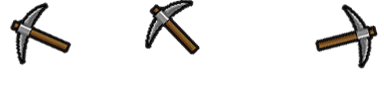
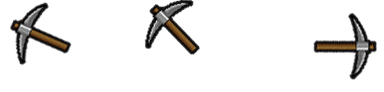
画像確認

Changed region(s): [[0.8125, 0.0435, 1.0, 0.8696]]

diff --git a/TGS2024/StageBlock.cpp b/TGS2024/StageBlock.cpp
@@ -29,7 +29,7 @@ StageBlock::StageBlock(int set_block_num,float set_x, float set_y)
 		break;
 	case 4:
 		//block_img = LoadGraph("images/Stage/rock.png");
-		LoadDivGraph("images/Stage/rock.png", 7, 7, 1, 64, 64, rock_img);
+		LoadDivGraph("images/Stage/rock2.png", 7, 7, 1, 64, 64, rock_img);
 		hp = 30;
 		shake_cnt = 0;
 		shakex = 0;
@@ -261,15 +261,15 @@ void StageBlock::Draw() const
 
 	//DrawCircle(box_vertex.upper_leftx, box_vertex.upper_lefty, 2, 0xff00ff, TRUE);
 	//DrawCircle(box_vertex.lower_leftx, box_vertex.lower_lefty, 2, 0xff00ff, TRUE);
-	DrawCircle(location.x, location.y, 2, 0xffffff, true);			// 中心座標
-	DrawCircle(location.x, location.y - height / 2, 2, 0xffffff, true);			// 中心座標
+	//DrawCircle(location.x, location.y, 2, 0xffffff, true);			// 中心座標
+	//DrawCircle(location.x, location.y - height / 2, 2, 0xffffff, true);			// 中心座標
 	if (block_num == 1)
 	{
-		DrawFormatString(location.x, location.y - 60, 0xffffff, "%.0f", location.y - height / 2);
-		DrawBox((int)location.x - width / 2, (int)location.y - height / 2, (int)location.x + width / 2, (int)location.y + height / 2, 0x00ffff, FALSE);
+		//DrawFormatString(location.x, location.y - 60, 0xffffff, "%.0f", location.y - height / 2);
+		//DrawBox((int)location.x - width / 2, (int)location.y - height / 2, (int)location.x + width / 2, (int)location.y + height / 2, 0x00ffff, FALSE);
 	//DrawCircleAA(location.x, location.y, 1, 0xff00ff, true);			// 中心座標
 	
-	DrawBox((int)box_vertex.right_x, (int)box_vertex.upper_y, (int)box_vertex.left_x, (int)box_vertex.lower_y, 0x00ffff, FALSE);
+	//DrawBox((int)box_vertex.right_x, (int)box_vertex.upper_y, (int)box_vertex.left_x, (int)box_vertex.lower_y, 0x00ffff, FALSE);
 
 	}
 }

diff --git a/TGS2024/TitleScene.cpp b/TGS2024/TitleScene.cpp
@@ -57,8 +57,8 @@ TitleScene::TitleScene()
 
 	// 画像読込
 	back_img = LoadGraph("images/scene/title/back.png");
-	pickaxe_img = LoadGraph("images/scene/title/pickaxe01.png");
-	LoadDivGraph("images/scene/title/cursor01.png", 3, 3, 1, 128, 92, cursor_img);
+	pickaxe_img = LoadGraph("images/scene/title/Pickaxe.png");
+	LoadDivGraph("images/scene/title/Cursor02.png", 3, 3, 1, 128, 92, cursor_img);
 	text_img[0] = LoadGraph("images/scene/title/gangancrush01.png");
 	text_img[1] = LoadGraph("images/scene/title/start01.png");
 	text_img[2] = LoadGraph("images/scene/title/end01.png");

diff --git a/TGS2024/Main.cpp b/TGS2024/Main.cpp
@@ -22,7 +22,7 @@ int WINAPI WinMain(HINSTANCE hInstance, HINSTANCE hPrevInstance, LPSTR lpCmdLine
 
 	SetDrawScreen(DX_SCREEN_BACK);	// 描画先画面を裏にする
 
-	SceneManager SceneManager(dynamic_cast<AbstractScene*>(new TitleScene));
+	SceneManager SceneManager(dynamic_cast<AbstractScene*>(new GameMainScene(true)));
 	Input input;
 	fps fp;
 	//ループ前にFPS計測を初期化

diff --git a/TGS2024/RollingEnemy.cpp b/TGS2024/RollingEnemy.cpp
@@ -17,7 +17,7 @@ RollingEnemy::RollingEnemy(float set_x)
 	move_y = 0.0f;			// 未使用
 	hp = 10.0f;
 	attack = 10.0f;
-	speed = 8.0f;
+	speed = 3.0f;
 	direction = false;	// 左向き
 
 	//画像読込
